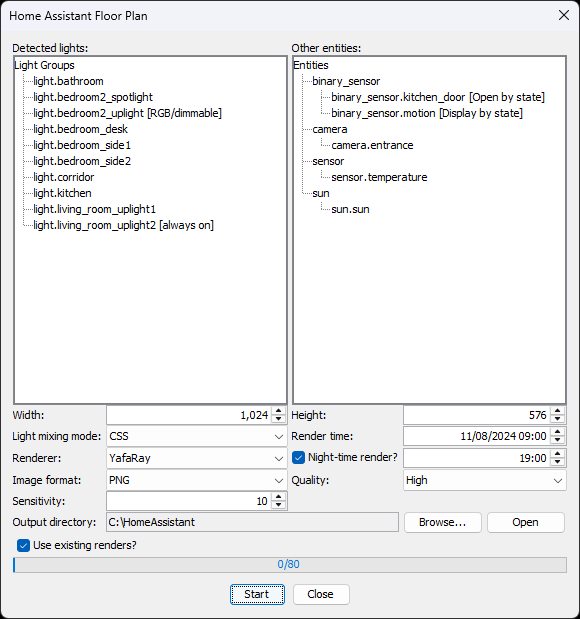
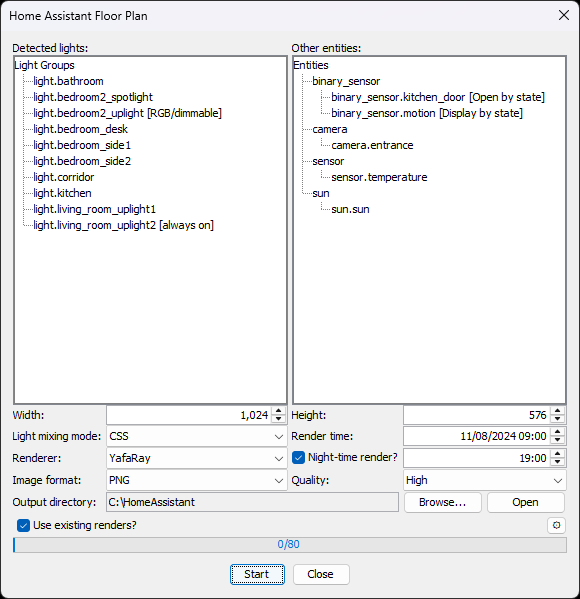
Add advanced options with base directory settings
Closes #198

diff --git a/src/com/shmuelzon/HomeAssistantFloorPlan/AdvancedOptionsPanel.java b/src/com/shmuelzon/HomeAssistantFloorPlan/AdvancedOptionsPanel.java
@@ -1,0 +1,144 @@
+package com.shmuelzon.HomeAssistantFloorPlan;
+
+import java.awt.Component;
+import java.awt.ComponentOrientation;
+import java.awt.GridBagConstraints;
+import java.awt.GridBagLayout;
+import java.awt.Insets;
+import java.awt.Window;
+import java.awt.event.ActionEvent;
+import java.util.Locale;
+import java.util.ResourceBundle;
+
+import javax.swing.ActionMap;
+import javax.swing.JButton;
+import javax.swing.JDialog;
+import javax.swing.JLabel;
+import javax.swing.JOptionPane;
+import javax.swing.JPanel;
+import javax.swing.JSpinner;
+import javax.swing.JTextField;
+import javax.swing.SpinnerNumberModel;
+import javax.swing.SwingUtilities;
+import javax.swing.event.ChangeEvent;
+import javax.swing.event.ChangeListener;
+import javax.swing.event.DocumentEvent;
+
+import com.eteks.sweethome3d.model.UserPreferences;
+import com.eteks.sweethome3d.swing.AutoCommitSpinner;
+import com.eteks.sweethome3d.swing.ResourceAction;
+import com.eteks.sweethome3d.swing.SwingTools;
+import com.eteks.sweethome3d.tools.OperatingSystem;
+
+public class AdvancedOptionsPanel extends JPanel {
+    private enum ActionType {CLOSE, RESET_TO_DEFAULTS}
+
+    private Controller controller;
+    private ResourceBundle resource;
+    private JLabel sensitivityLabel;
+    private JSpinner sensitivitySpinner;
+    private JLabel homeAssistantPathLabel;
+    private JTextField homeAssistantPathTextField;
+    private JButton closeButton;
+    private JButton resetToDefaultsButton;
+
+    public AdvancedOptionsPanel(UserPreferences preferences, Controller controller) {
+        super(new GridBagLayout());
+        this.controller = controller;
+
+        resource = ResourceBundle.getBundle("com.shmuelzon.HomeAssistantFloorPlan.ApplicationPlugin", Locale.getDefault());
+        createActions(preferences);
+        createComponents();
+        layoutComponents();
+    }
+
+    private void createActions(UserPreferences preferences) {
+        final ActionMap actions = getActionMap();
+        actions.put(ActionType.CLOSE, new ResourceAction(preferences, Panel.class, ActionType.CLOSE.name(), true) {
+            @Override
+            public void actionPerformed(ActionEvent ev) {
+                close();
+            }
+        });
+        actions.put(ActionType.RESET_TO_DEFAULTS, new ResourceAction(preferences, Panel.class, ActionType.RESET_TO_DEFAULTS.name(), true) {
+            @Override
+            public void actionPerformed(ActionEvent ev) {
+                controller.resetAdvancedOptionsToDefaults();
+                close();
+            }
+        });
+    }
+
+    private void createComponents() {
+        final ActionMap actionMap = getActionMap();
+
+        sensitivityLabel = new JLabel();
+        sensitivityLabel.setText(resource.getString("HomeAssistantFloorPlan.Panel.sensitivityLabel.text"));
+        final SpinnerNumberModel sensitivitySpinnerModel = new SpinnerNumberModel(10, 0, 100, 1);
+        sensitivitySpinner = new AutoCommitSpinner(sensitivitySpinnerModel);
+        sensitivitySpinnerModel.setValue(controller.getSensitivity());
+        sensitivitySpinner.addChangeListener(new ChangeListener() {
+            public void stateChanged(ChangeEvent ev) {
+                controller.setSensitivity(((Number)sensitivitySpinner.getValue()).intValue());
+            }
+        });
+
+        homeAssistantPathLabel = new JLabel();
+        homeAssistantPathLabel.setText(resource.getString("HomeAssistantFloorPlan.Panel.homeAssistantPathLabel.text"));
+        homeAssistantPathTextField = new JTextField(25);
+        homeAssistantPathTextField.setText(controller.getHomeAssistantPath());
+        homeAssistantPathTextField.getDocument().addDocumentListener(new SimpleDocumentListener() {
+            @Override
+            public void executeUpdate(DocumentEvent e) {
+                controller.setHomeAssistantPath(homeAssistantPathTextField.getText());
+            }
+        });
+
+        closeButton = new JButton(actionMap.get(ActionType.CLOSE));
+        closeButton.setText(resource.getString("HomeAssistantFloorPlan.Panel.closeButton.text"));
+        resetToDefaultsButton = new JButton(actionMap.get(ActionType.RESET_TO_DEFAULTS));
+        resetToDefaultsButton.setText(resource.getString("HomeAssistantFloorPlan.Panel.resetToDefaultsButton.text"));
+    }
+
+    private void layoutComponents() {
+        int labelAlignment = OperatingSystem.isMacOSX() ? JLabel.TRAILING : JLabel.LEADING;
+        int standardGap = Math.round(2 * SwingTools.getResolutionScale());
+        Insets insets = new Insets(0, standardGap, 0, standardGap);
+        int currentGridYIndex = 0;
+
+        add(sensitivityLabel, new GridBagConstraints(
+            0, currentGridYIndex, 1, 1, 0, 0, GridBagConstraints.CENTER,
+            GridBagConstraints.HORIZONTAL, insets, 0, 0));
+        sensitivityLabel.setHorizontalAlignment(labelAlignment);
+        add(sensitivitySpinner, new GridBagConstraints(
+            1, currentGridYIndex, 1, 1, 0, 0, GridBagConstraints.LINE_START,
+            GridBagConstraints.HORIZONTAL, insets, 0, 0));
+        currentGridYIndex++;
+
+        add(homeAssistantPathLabel, new GridBagConstraints(
+            0, currentGridYIndex, 1, 1, 0, 0, GridBagConstraints.CENTER,
+            GridBagConstraints.HORIZONTAL, insets, 0, 0));
+        homeAssistantPathLabel.setHorizontalAlignment(labelAlignment);
+        add(homeAssistantPathTextField, new GridBagConstraints(
+            1, currentGridYIndex, 1, 1, 0, 0, GridBagConstraints.LINE_START,
+            GridBagConstraints.HORIZONTAL, insets, 0, 0));
+    }
+
+    public void displayView(Component parentComponent) {
+        final JOptionPane optionPane = new JOptionPane(this,
+                JOptionPane.PLAIN_MESSAGE, JOptionPane.DEFAULT_OPTION,
+                null, new Object [] {closeButton, resetToDefaultsButton}, closeButton);
+        final JDialog dialog = optionPane.createDialog(SwingUtilities.getRootPane(parentComponent),
+            resource.getString("HomeAssistantFloorPlan.Panel.advancedOptions.title"));
+        dialog.applyComponentOrientation(parentComponent != null ?
+            parentComponent.getComponentOrientation() : ComponentOrientation.getOrientation(Locale.getDefault()));
+        dialog.setModal(true);
+        dialog.setVisible(true);
+    }
+
+    private void close() {
+        Window window = SwingUtilities.getWindowAncestor(this);
+        if (window.isDisplayable())
+            window.dispose();
+    }
+}

diff --git a/src/com/shmuelzon/HomeAssistantFloorPlan/Panel.java b/src/com/shmuelzon/HomeAssistantFloorPlan/Panel.java
@@ -81,7 +81,7 @@ import com.eteks.sweethome3d.viewcontroller.View;
 
 @SuppressWarnings("serial")
 public class Panel extends JPanel implements DialogView {
-    private enum ActionType {BROWSE, OPEN, START, STOP, CLOSE}
+    private enum ActionType {BROWSE, OPEN, ADVANCED_OPTIONS, START, STOP, CLOSE}
 
     private static final String MAC_OS_DIRECTORY_DIALOG_PROPERTY = "apple.awt.fileDialogForDirectories";
 
@@ -101,8 +101,6 @@ public class Panel extends JPanel implements DialogView {
     private JSpinner heightSpinner;
     private JLabel lightMixingModeLabel;
     private JComboBox<Controller.LightMixingMode> lightMixingModeComboBox;
-    private JLabel sensitivityLabel;
-    private JSpinner sensitivitySpinner;
     private JLabel rendererLabel;
     private JComboBox<Controller.Renderer> rendererComboBox;
     private JLabel qualityLabel;
@@ -123,6 +121,7 @@ public class Panel extends JPanel implements DialogView {
     private JPanel outputDirectoryButtonsPanel;
     private FileContentManager outputDirectoryChooser;
     private JCheckBox useExistingRendersCheckbox;
+    private JButton advancedOptionsButton;
     private JProgressBar progressBar;
     private JButton startButton;
     private JButton closeButton;
@@ -182,6 +181,12 @@ public class Panel extends JPanel implements DialogView {
             @Override
             public void actionPerformed(ActionEvent ev) {
                 openOutputDirectory();
+            }
+        });
+        actions.put(ActionType.ADVANCED_OPTIONS, new ResourceAction(preferences, Panel.class, ActionType.ADVANCED_OPTIONS.name(), true) {
+            @Override
+            public void actionPerformed(ActionEvent ev) {
+                new AdvancedOptionsPanel(preferences, controller).displayView(Panel.this);
             }
         });
         actions.put(ActionType.START, new ResourceAction(preferences, Panel.class, ActionType.START.name(), true) {
@@ -414,17 +419,6 @@ public class Panel extends JPanel implements DialogView {
             }
         });
 
-        sensitivityLabel = new JLabel();
-        sensitivityLabel.setText(resource.getString("HomeAssistantFloorPlan.Panel.sensitivityLabel.text"));
-        final SpinnerNumberModel sensitivitySpinnerModel = new SpinnerNumberModel(15, 0, 100, 1);
-        sensitivitySpinner = new AutoCommitSpinner(sensitivitySpinnerModel);
-        sensitivitySpinnerModel.setValue(controller.getSensitivity());
-        sensitivitySpinner.addChangeListener(new ChangeListener() {
-            public void stateChanged(ChangeEvent ev) {
-              controller.setSensitivity(((Number)sensitivitySpinner.getValue()).intValue());
-            }
-        });
-
         rendererLabel = new JLabel();
         rendererLabel.setText(resource.getString("HomeAssistantFloorPlan.Panel.rendererLabel.text"));
         rendererComboBox = new JComboBox<Controller.Renderer>(Controller.Renderer.values());
@@ -542,6 +536,11 @@ public class Panel extends JPanel implements DialogView {
             }
         });
 
+        advancedOptionsButton = new JButton(actionMap.get(ActionType.ADVANCED_OPTIONS));
+        advancedOptionsButton.setText(resource.getString("HomeAssistantFloorPlan.Panel.advancedOptionsButton.text"));
+        advancedOptionsButton.setToolTipText(resource.getString("HomeAssistantFloorPlan.Panel.advancedOptionsButton.tooltip"));
+        advancedOptionsButton.setMargin(new Insets(0, 4, 0, 4));
+
         outputDirectoryLabel = new JLabel();
         outputDirectoryLabel.setText(resource.getString("HomeAssistantFloorPlan.Panel.outputDirectoryLabel.text"));
         outputDirectoryTextField = new JTextField(20);
@@ -603,7 +602,6 @@ public class Panel extends JPanel implements DialogView {
         widthSpinner.setEnabled(enabled);
         heightSpinner.setEnabled(enabled);
         lightMixingModeComboBox.setEnabled(enabled);
-        sensitivitySpinner.setEnabled(enabled);
         rendererComboBox.setEnabled(enabled);
         qualityComboBox.setEnabled(enabled);
         renderTimeSpinner.setEnabled(enabled);
@@ -613,6 +611,7 @@ public class Panel extends JPanel implements DialogView {
         outputDirectoryTextField.setEnabled(enabled);
         outputDirectoryBrowseButton.setEnabled(enabled);
         useExistingRendersCheckbox.setEnabled(enabled);
+        advancedOptionsButton.setEnabled(enabled);
         if (enabled) {
             startButton.setAction(getActionMap().get(ActionType.START));
             startButton.setText(resource.getString("HomeAssistantFloorPlan.Panel.startButton.text"));
@@ -713,15 +712,6 @@ public class Panel extends JPanel implements DialogView {
             GridBagConstraints.HORIZONTAL, insets, 0, 0));
         currentGridYIndex++;
 
-        /* Sensitivity */
-        add(sensitivityLabel, new GridBagConstraints(
-            0, currentGridYIndex, 1, 1, 0, 0, GridBagConstraints.CENTER,
-            GridBagConstraints.HORIZONTAL, insets, 0, 0));
-        add(sensitivitySpinner, new GridBagConstraints(
-            1, currentGridYIndex, 1, 1, 0, 0, GridBagConstraints.CENTER,
-            GridBagConstraints.HORIZONTAL, insets, 0, 0));
-        currentGridYIndex++;
-
         /* Output directory */
         add(outputDirectoryLabel, new GridBagConstraints(
             0, currentGridYIndex, 1, 1, 0, 0, GridBagConstraints.CENTER,
@@ -738,6 +728,9 @@ public class Panel extends JPanel implements DialogView {
         add(useExistingRendersCheckbox, new GridBagConstraints(
             0, currentGridYIndex, 2, 1, 0, 0, GridBagConstraints.CENTER,
             GridBagConstraints.HORIZONTAL, insets, 0, 0));
+        add(advancedOptionsButton, new GridBagConstraints(
+            3, currentGridYIndex, 1, 1, 0, 0, GridBagConstraints.LINE_END,
+            GridBagConstraints.NONE, insets, 0, 0));
         currentGridYIndex++;
 
         /* Progress bar */

diff --git a/src/com/shmuelzon/HomeAssistantFloorPlan/Controller.java b/src/com/shmuelzon/HomeAssistantFloorPlan/Controller.java
@@ -61,6 +61,7 @@ public class Controller {
     private static final String CONTROLLER_QUALITY = "quality";
     private static final String CONTROLLER_IMAGE_FORMAT = "imageFormat";
     private static final String CONTROLLER_RENDER_TIME = "renderTime";
+    private static final String CONTROLLER_HOME_ASSISTANT_PATH = "homeAssistantPath";
     private static final String CONTROLLER_OUTPUT_DIRECTORY_NAME = "outputDirectoryName";
     private static final String CONTROLLER_USE_EXISTING_RENDERS = "useExistingRenders";
 
@@ -84,6 +85,7 @@ public class Controller {
     private Quality quality;
     private ImageFormat imageFormat;
     private List<Long> renderDateTimes;
+    private String homeAssistantPath;
     private String outputDirectoryName;
     private String outputRendersDirectoryName;
     private String outputFloorplanDirectoryName;
@@ -112,6 +114,7 @@ public class Controller {
         quality = Quality.valueOf(settings.get(CONTROLLER_QUALITY, Quality.HIGH.name()));
         imageFormat = ImageFormat.valueOf(settings.get(CONTROLLER_IMAGE_FORMAT, ImageFormat.PNG.name()));
         renderDateTimes = settings.getListLong(CONTROLLER_RENDER_TIME, Arrays.asList(camera.getTime()));
+        homeAssistantPath = settings.get(CONTROLLER_HOME_ASSISTANT_PATH, "/local/floorplan");
         outputDirectoryName = settings.get(CONTROLLER_OUTPUT_DIRECTORY_NAME);
         updateOutputSubDirectoryNames();
         useExistingRenders = settings.getBoolean(CONTROLLER_USE_EXISTING_RENDERS, true);
@@ -185,6 +188,25 @@ public class Controller {
     public void setSensitivity(int sensitivity) {
         this.sensitivity = sensitivity;
         settings.setInteger(CONTROLLER_SENSITIVTY, sensitivity);
+    }
+
+    public String getHomeAssistantPath() {
+        return homeAssistantPath;
+    }
+
+    public void setHomeAssistantPath(String homeAssistantPath) {
+        this.homeAssistantPath = homeAssistantPath;
+        settings.set(CONTROLLER_HOME_ASSISTANT_PATH, homeAssistantPath);
+    }
+
+    private String imagePath(String imageName) {
+        return homeAssistantPath.replaceAll("/+$", "") + "/" + imageName;
+    }
+
+    public void resetAdvancedOptionsToDefaults() {
+        settings.set(CONTROLLER_SENSITIVTY, null);
+        settings.set(CONTROLLER_HOME_ASSISTANT_PATH, null);
+        loadDefaultSettings();
     }
 
     public LightMixingMode getLightMixingMode() {
@@ -313,8 +335,8 @@ public class Controller {
             generateTransparentImage(outputFloorplanDirectoryName + File.separator + TRANSPARENT_IMAGE_NAME + ".png");
             String yaml = String.format(
                 "type: picture-elements\n" +
-                "image: /local/floorplan/%s.png?version=%s\n" +
-                "elements:\n", TRANSPARENT_IMAGE_NAME, renderHash(TRANSPARENT_IMAGE_NAME, true));
+                "image: %s.png?version=%s\n" +
+                "elements:\n", imagePath(TRANSPARENT_IMAGE_NAME), renderHash(TRANSPARENT_IMAGE_NAME, true));
             
             turnOffLightsFromOtherLevels();
             for (Scene scene : scenes) {
@@ -698,13 +720,13 @@ public class Controller {
             "          action: none\n" +
             "        hold_action:\n" +
             "          action: none\n" +
-            "        image: /local/floorplan/%s.%s?version=%s\n" +
+            "        image: %s.%s?version=%s\n" +
             "        filter: none\n" +
             "        style:\n" +
             "          left: 50%%\n" +
             "          top: 50%%\n" +
             "          width: 100%%\n%s",
-            generateTitle(scene, onLights), conditions, normalizePath(imageName),
+            generateTitle(scene, onLights), conditions, imagePath(normalizePath(imageName)),
             getFloorplanImageExtention(), renderHash(imageName),
             includeMixBlend && lightMixingMode == LightMixingMode.CSS ? "          mix-blend-mode: lighten\n" : "");
     }
@@ -733,8 +755,8 @@ public class Controller {
             "          type: image\n" +
             "          image: >-\n" +
             "              ${!isInColoredMode(COLOR_MODE) || (isInColoredMode(COLOR_MODE) && LIGHT_COLOR && LIGHT_COLOR[0] == 0 && LIGHT_COLOR[1] == 0) ?\n" +
-            "              '/local/floorplan/%s.png?version=%s' :\n" +
-            "              '/local/floorplan/%s.png?version=%s' }\n" +
+            "              '%s.png?version=%s' :\n" +
+            "              '%s.png?version=%s' }\n" +
             "        style:\n" +
             "          filter: '${ \"hue-rotate(\" + (isInColoredMode(COLOR_MODE) && LIGHT_COLOR ? LIGHT_COLOR[0] : 0) + \"deg) saturate(\" + (LIGHT_COLOR ? LIGHT_COLOR[1] / 100 : 1) + \")\"}'\n" +
             "          opacity: '${LIGHT_STATE === ''on'' ? (BRIGHTNESS / 255) : ''100''}'\n" +
@@ -745,7 +767,7 @@ public class Controller {
             "          width: 100%%\n",
             generateTitle(scene, Arrays.asList(light)),
             lightName, scene.getConditions(), lightName, lightName, lightName, lightName, lightName,
-            normalizePath(imageName), renderHash(imageName, true), normalizePath(imageName) + ".red", renderHash(imageName + ".red", true));
+            imagePath(normalizePath(imageName)), renderHash(imageName, true), imagePath(normalizePath(imageName) + ".red"), renderHash(imageName + ".red", true));
     }
 
     private String normalizePath(String fileName) {

diff --git a/README.md b/README.md
@@ -94,9 +94,6 @@ the room they're located in. Please verify the list matches your expectations.
 * Renderer - Select which rendering engine to use, YafaRay or SunFlow
 * Image format - The image file format of the resulting floor plan (PNG or JPEG)
 * Quality - Choose the rendering quality (low or high)
-* Sensitivity - [1, 100] The degree by which two pixels need to be different
-  from one another to be taken into account for the generated overlay image.
-  Only relevant for "room overlay" light mixing mode and RGB lights
 * Output directory - The location on your PC where the floor plan images and
   YAML will be saved
 
@@ -145,6 +142,23 @@ that allow you to customize the entity according to your needs.
 
   :warning: **Note:** RGB/dimmable lights are only supported in the CSS
   rendering mode
+
+### Advanced Options
+
+Clicking the cogwheel button at the bottom of the configuration window opens the
+advanced options, which hold low-level settings most users don't need to change.
+
+<img src="doc/advancedOptions.png" />
+
+* Sensitivity - [1, 100] The degree by which two pixels need to be different
+  from one another to be taken into account for the generated overlay image.
+  Only relevant for "room overlay" light mixing mode and RGB lights
+* Home Assistant path - The path, as seen by Home Assistant, under which the
+  generated images are stored. It is used as the prefix of every image
+  referenced by the generated YAML. The default is `/local/floorplan`, which
+  matches copying the `floorplan` folder into Home Assistant's `www` folder
+
+The "Reset to defaults" button restores both settings to their original values.
 
 ## Preparation
 
